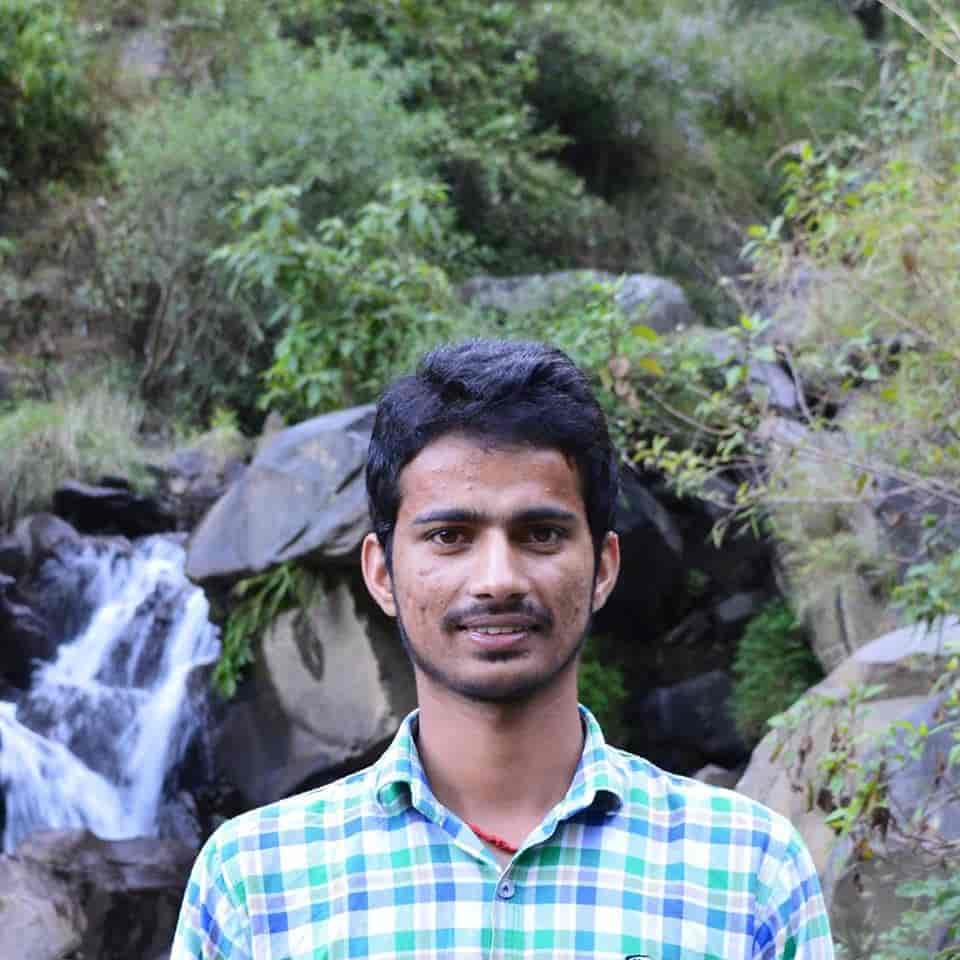
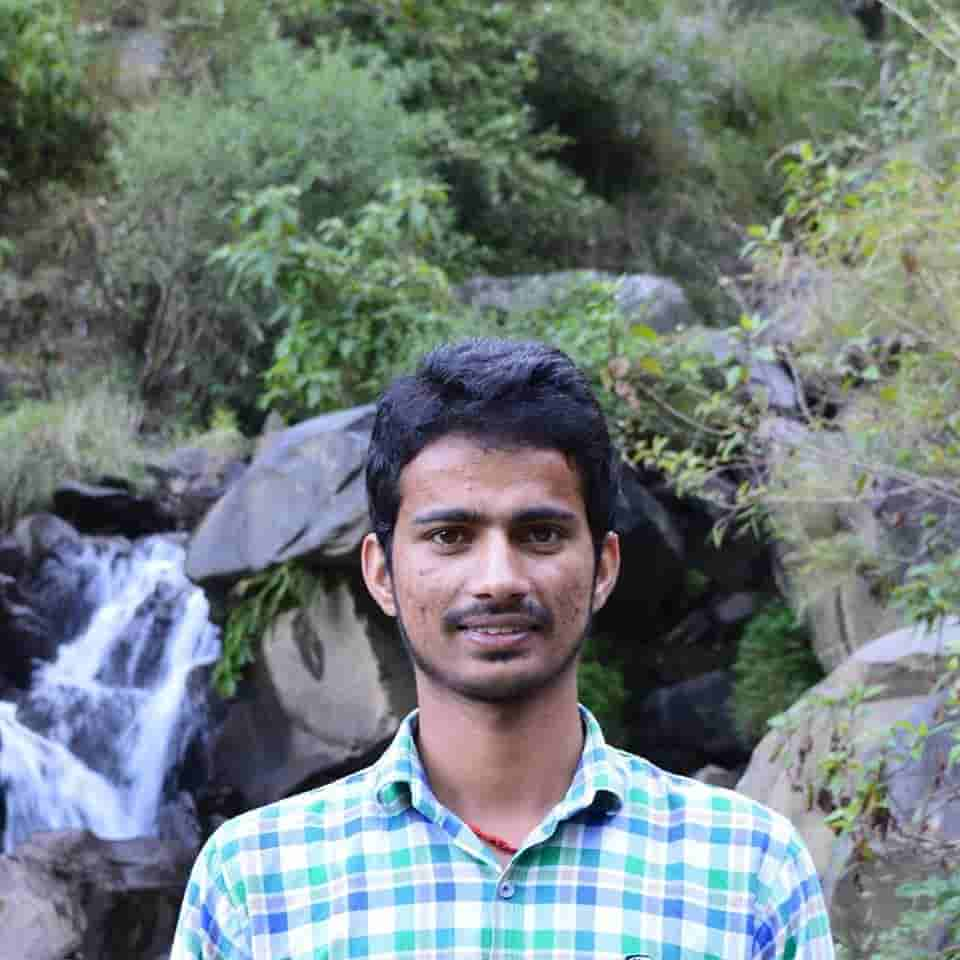
pic miss-fix #11

diff --git a/team.html b/team.html
@@ -308,7 +308,7 @@ html {
 <div class="row">
   <div class="column">
     <div class="card">
-      <img  class = "dp" src="img/team/content1.png" alt="namrata" style="width:100%">
+      <img  class = "dp" src="img/team/content1.jpg" alt="namrata" style="width:100%">
       <div class="container">
         <h3>Namrata Malkani</h3>
         <p class="title">Content Head</p>
@@ -478,7 +478,7 @@ html {
   </div>
   <div class="column">
     <div class="card">
-      <img  class = "dp" src="img/team/finance.png" alt="aniwesh" style="width:100%">
+      <img  class = "dp" src="img/team/finance.jpg" alt="aniwesh" style="width:100%">
       <div class="container">
         <h3>Anwesh Das</h3>
         <p class="title">Finance Head</p>
